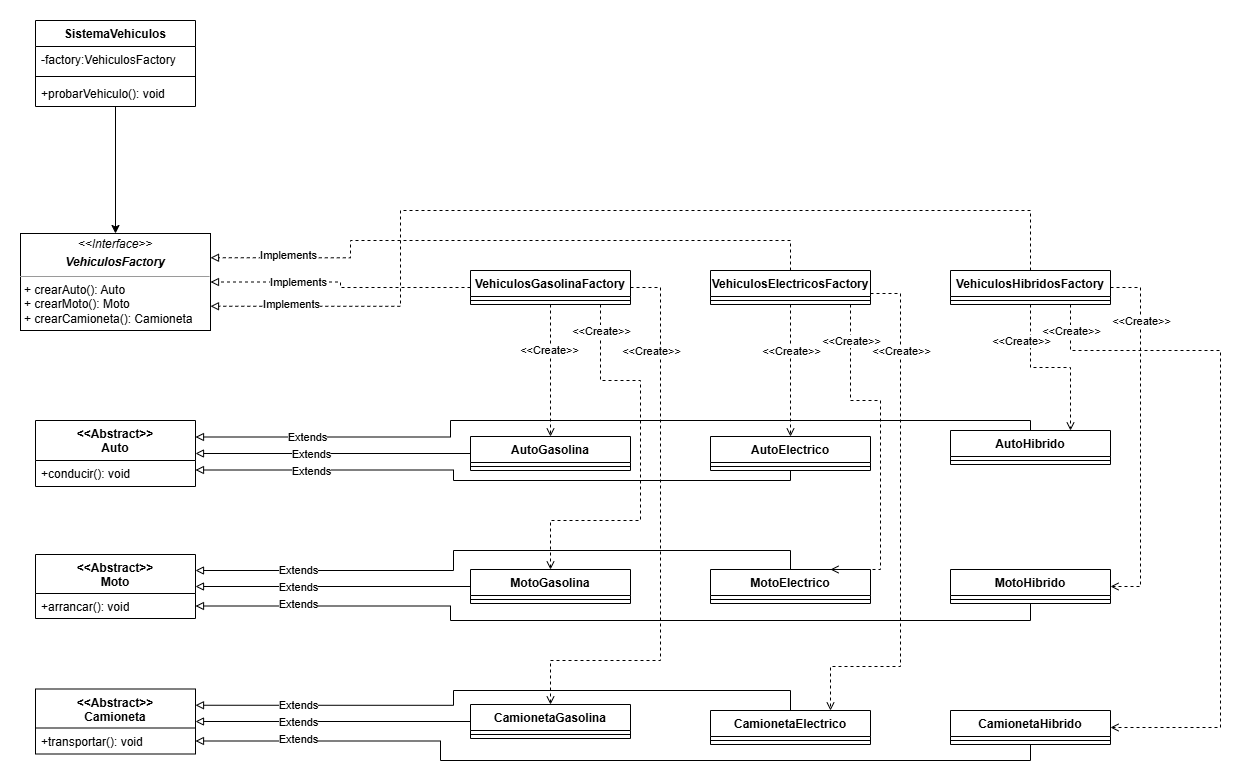
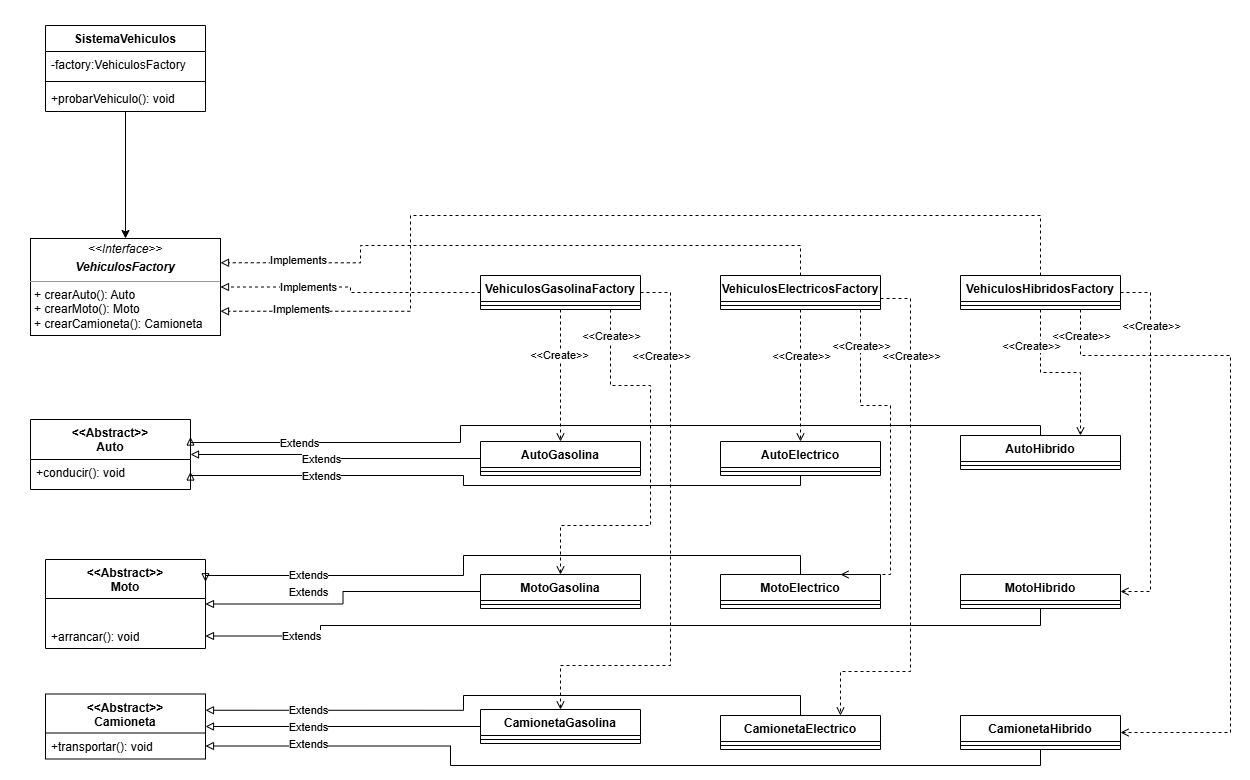
Ejercicio04 AbstractFactory: Diagrama de clases completo

diff --git a/01-Creacionales/Abstract-Factory/Ejercicio04-SistemaVehiculos/README.md b/01-Creacionales/Abstract-Factory/Ejercicio04-SistemaVehiculos/README.md
@@ -147,4 +147,4 @@ Si usas gasolina:
     Camioneta a gasolina Ford transportando carga pesada.
 
 ## Diagrama de Clases
-![Diagrama de clases](Diagramas/DiagramaClases.png)
+![Diagrama de clases](Diagramas/DiagramaClases.png8/8/8/8/8/8/8/8/8/8/8/8/8/8/8/8/8/8/8/8/8/8/8/8/8/8/8/8/8/8/8/8/8/8/8/8/8/)